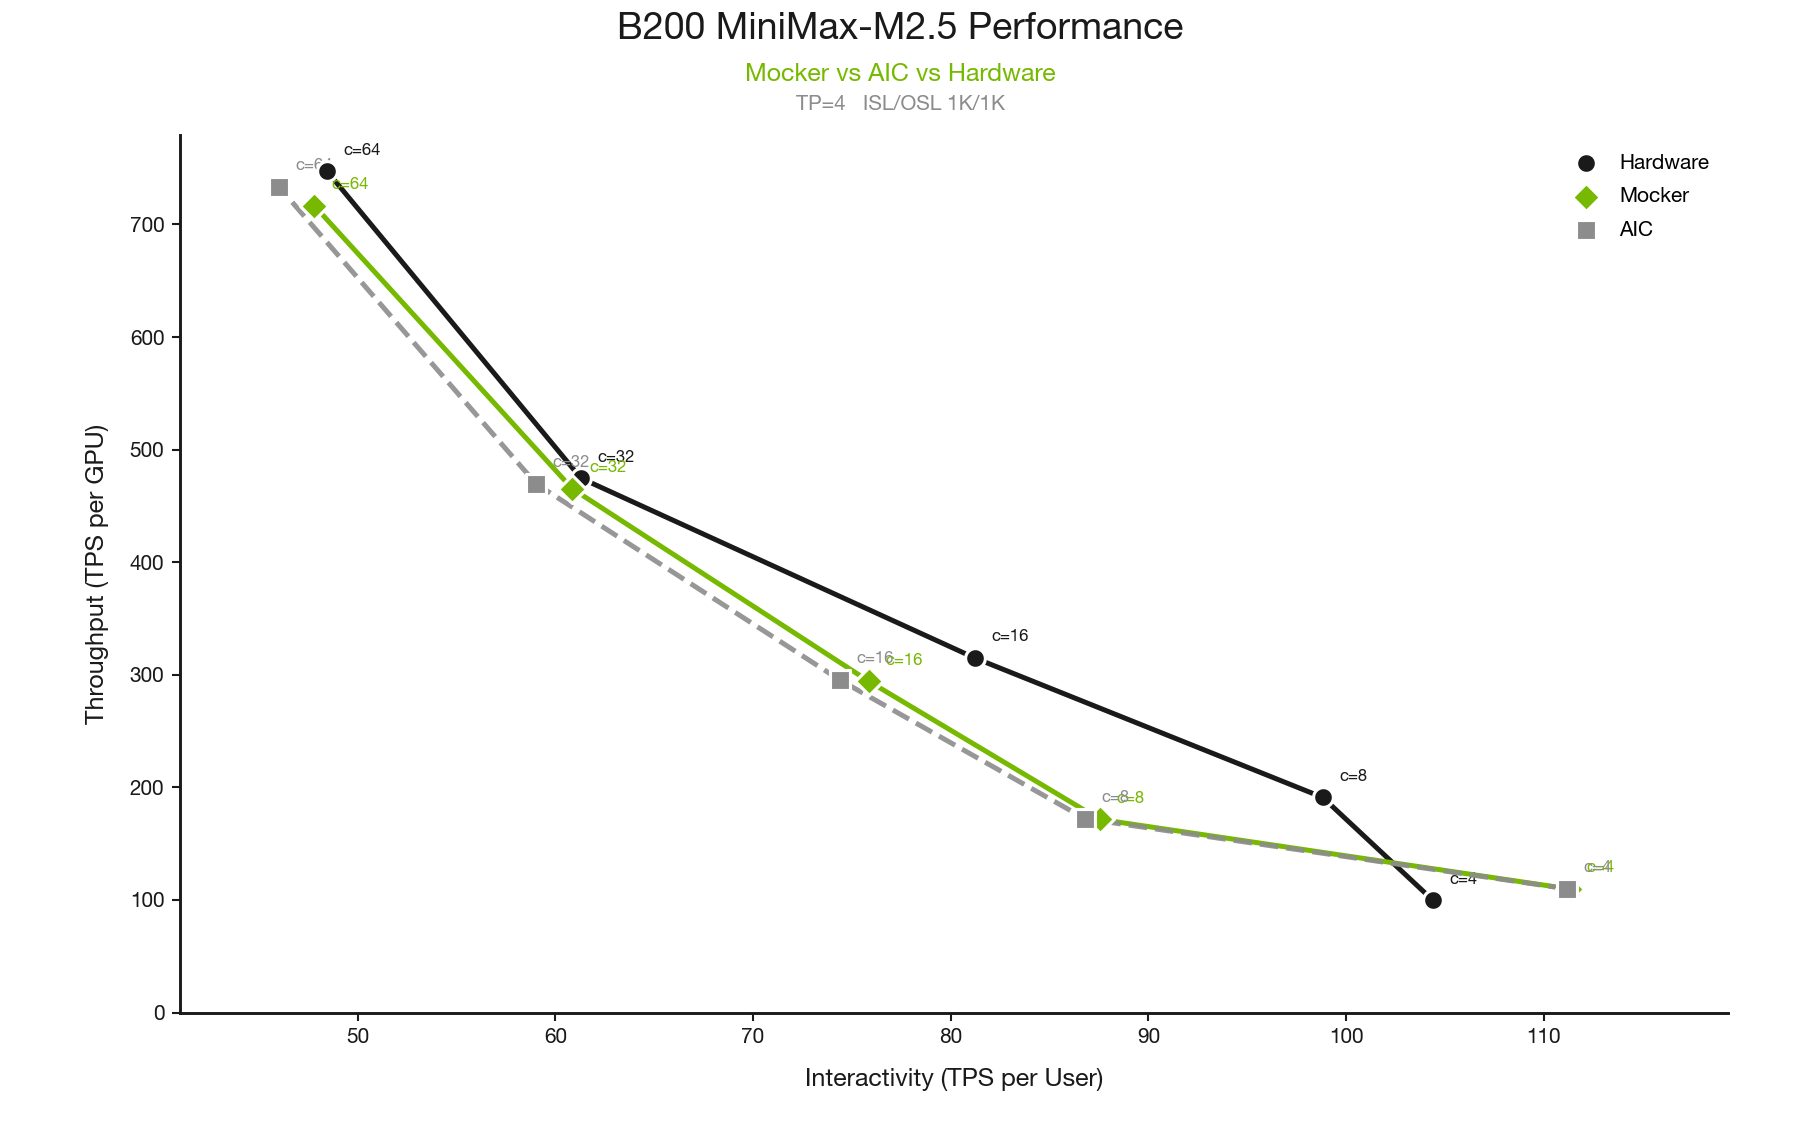
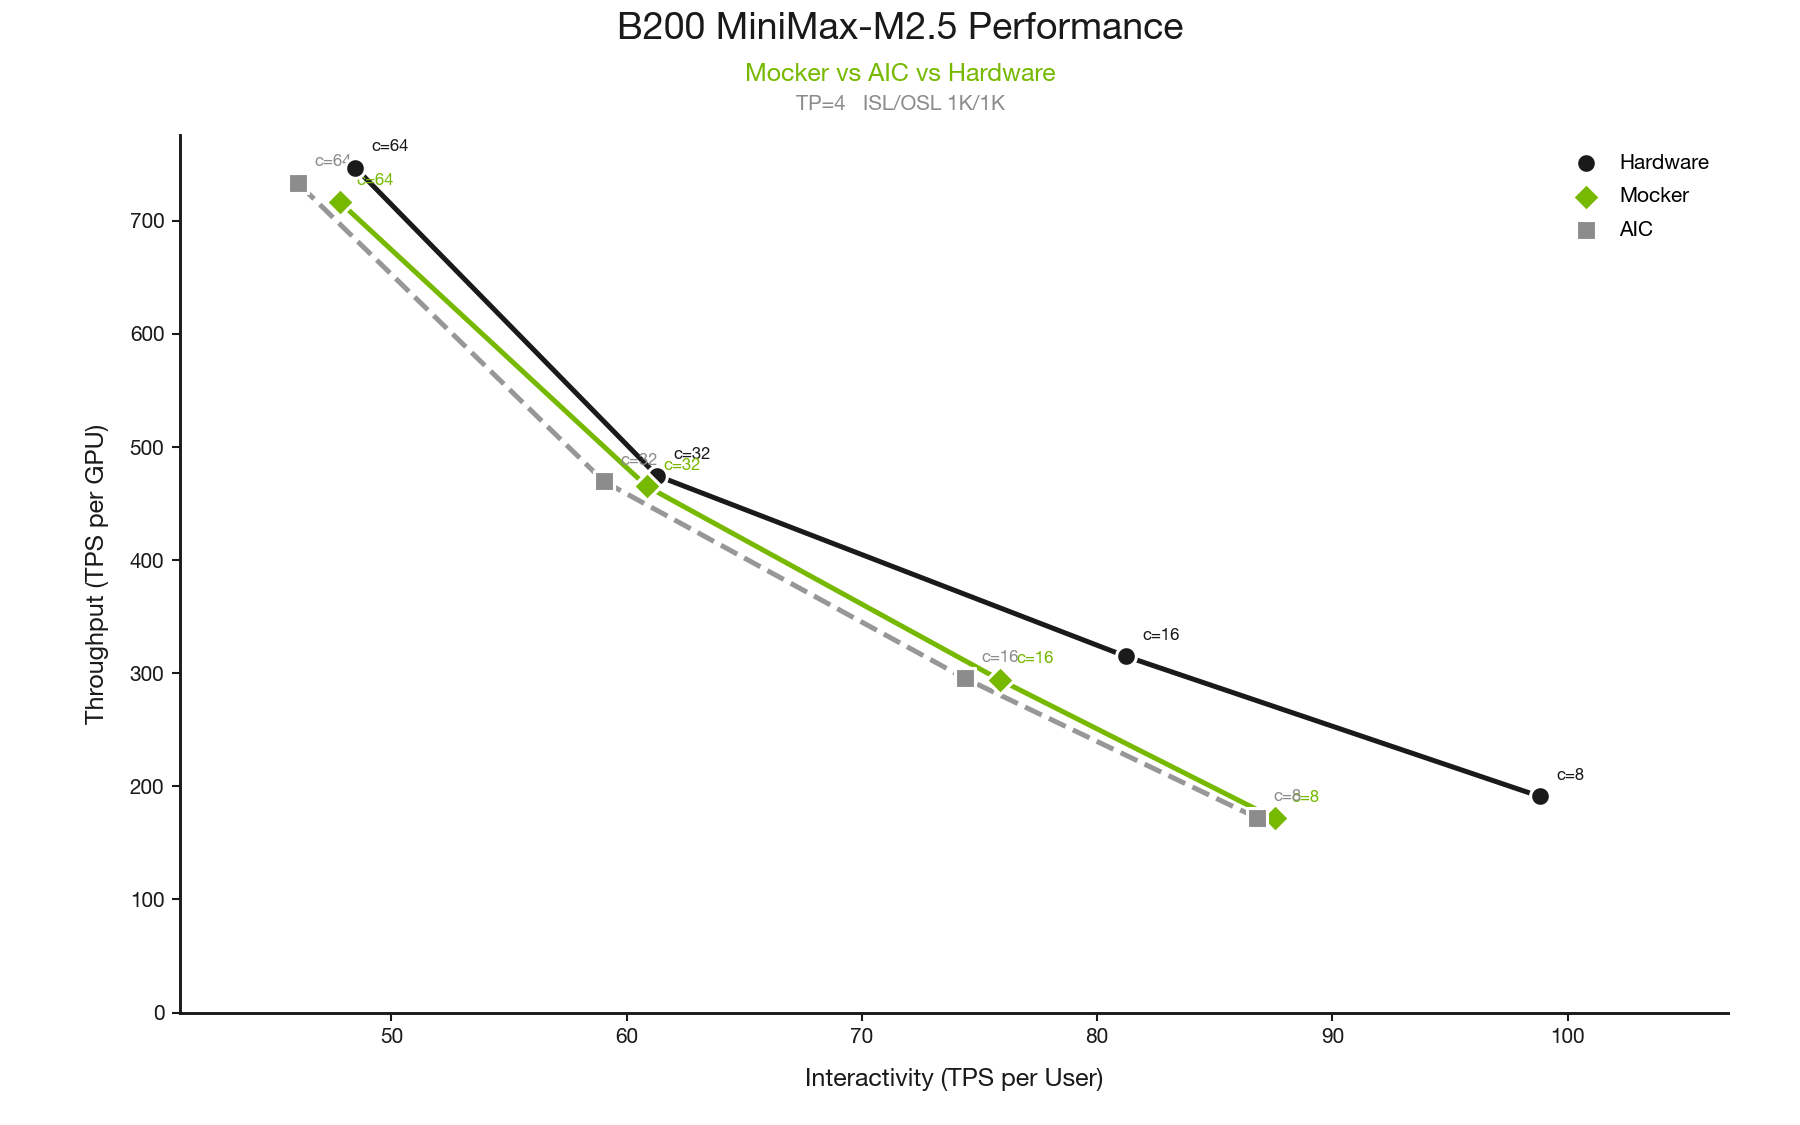
docs: remove c4 in fidelity images

diff --git a/docs/blogs/digital-twin-simulation/README.md b/docs/blogs/digital-twin-simulation/README.md
@@ -200,17 +200,17 @@ then estimates the duration of that chosen pass. The combination is the point:
 AIC informs the speed of the pass, while the mocker/replay scheduler models the
 serving behavior around the pass.
 
-![Throughput (TPS per GPU) vs. Interactivity (TPS per User) for hardware, mocker, and AIC on B200 MiniMax-M2.5, TP=4, ISL/OSL 1K/1K, concurrencies c=4 to c=64.](./images/hw_mocker_aic_pareto.png)
+![Throughput (TPS per GPU) vs. Interactivity (TPS per User) for hardware, mocker, and AIC on B200 MiniMax-M2.5, TP=4, ISL/OSL 1K/1K, concurrencies c=8 to c=64.](./images/hw_mocker_aic_pareto.png)
 
 ![TPS/GPU, TPS/User, TPOT, and TTFT vs. concurrency for hardware, mocker, and AIC on B200 MiniMax-M2.5, TP=4, ISL/OSL 1K/1K.](./images/hw_mocker_aic_4panel.png)
 
-The model tested is MiniMax-M2.5 FP8 on B200, with TP=4, ISL=1K, OSL=1K, at concurrencies from 4 to 64. Here are the mean absolute percentage errors (MAPE) vs. real hardware:
+The model tested is MiniMax-M2.5 FP8 on B200, with TP=4, ISL=1K, OSL=1K, at concurrencies from 8 to 64. Here are the mean absolute percentage errors (MAPE) vs. real hardware:
 
 | Metric | Mocker MAPE | AIC MAPE |
 |---|---|---|
-| TPS/GPU | 6.6% | 5.8% |
-| TPS/User | 5.3% | 7.2% |
-| TPOT | 8.3% | 7.7% |
+| TPS/GPU | 5.7% | 4.7% |
+| TPS/User | 5.0% | 7.3% |
+| TPOT | 9.0% | 8.1% |
 | TTFT | 8.8% | 10.6% |
 
 Mocker achieved comparable or better accuracy across all metrics, notably with better TTFT estimation at high concurrency (64).
@@ -278,7 +278,13 @@ changing load.
 
 ### 2.5 KV Block Manager Simulation
 
-[placeholder: exact wording for current KVBM simulation status and near-future WIP]
+Current KVBM simulation work is focused on local G1-to-G2 behavior in the
+mocker/replay path. G1 is the scheduler-visible GPU KV capacity. When KVBM
+offload is enabled, evicted G1 blocks can be handed to an in-process KVBM
+offload engine, registered in a real `BlockManager<G2>`, and later swapped back
+into G1 with simulated transfer delay when a request finds a G2 prefix hit.
+Live mode drives this path with wall-clock time; offline replay drives the same
+hot path with virtual time from the DES loop.
 
 There are two different claims to keep separate.
 
@@ -291,7 +297,11 @@ style as the router and planner. In that model, cache movement, placement, and
 memory hierarchy behavior would schedule their own events and feed back into
 engine, router, and planner decisions.
 
-[placeholder: external team input on distributed cache / CMX roadmap]
+For distributed cache and CMX, the public wording should stay in roadmap
+territory. The current modeled path is local G2 with mock data movement and
+bandwidth-sensitive timing; extending that to shared lower tiers requires
+explicit models for cross-worker placement, topology, and shared-resource
+contention.
 
 The longer-term direction is distributed cache simulation: CMX-style
 cross-machine movement, topology-aware routing, bandwidth-sensitive placement,